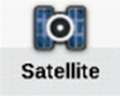
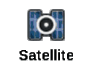
Fixed buttons and exceptions

diff --git a/xtrek/src/xtrek/MainMenuModel.java b/xtrek/src/xtrek/MainMenuModel.java
@@ -3,6 +3,7 @@ package xtrek;
 import javax.imageio.ImageIO;
 import javax.swing.*;
 import java.awt.*;
+import java.io.IOException;
 import java.util.ArrayList;
 
 /**
@@ -19,7 +20,7 @@ public class MainMenuModel extends ModeModel{
     
     private OperatorButton currentButton;
     private int buttonIndex;
-    private Xtrek xtrek;
+    private final Xtrek xtrek;
 
     MainMenuModel(Xtrek xtrek) {
         this.xtrek = xtrek;
@@ -40,6 +41,8 @@ public class MainMenuModel extends ModeModel{
             xtrek.updateFrame(Xtrek.satellite);
         } else if(currentButton.currentClass == About.class) {
             xtrek.updateFrame(Xtrek.AboutMode);
+        } else{
+            xtrek.updateFrame(Xtrek.MainMenu);
         }
     }
     
@@ -77,8 +80,11 @@ public class MainMenuModel extends ModeModel{
                 Image img = ImageIO.read(getClass().getResource("assets/" + display + ".png"))
                         .getScaledInstance(88, 70, Image.SCALE_SMOOTH);
                 setIcon(new ImageIcon(img));
-            }   catch (Exception ex) {
+            }   catch (IOException | IllegalArgumentException ex) {
                 System.out.println(ex);
+                this.setText(display);
+                this.setContentAreaFilled(true);
+                this.setBackground(Color.WHITE);
             }  
             this.currentClass = currentClass;
             setStyle();
@@ -87,10 +93,9 @@ public class MainMenuModel extends ModeModel{
         private void setStyle() {
             //set the display style of the operator buttons
             setOpaque(true); 
-            setBackground(Color.BLACK);
-            setBorderPainted(false);
-            setFont(new Font(Constants.SYSTEM_FONT, Font.BOLD, 14));
-            setHorizontalAlignment(SwingConstants.CENTER);
+            setBackground(Color.WHITE);
+            setBorderPainted(true);
+            
         }
 
         private void focusGained() {
@@ -100,7 +105,7 @@ public class MainMenuModel extends ModeModel{
 
         private void focusLost() {
             //when the focus is lost it reverts back to the orginal colour
-            setBackground(Color.BLACK);
+            setBackground(Color.WHITE);
         }
         
         String getDisplay() {

diff --git a/xtrek/src/xtrek/ControlLayout.java b/xtrek/src/xtrek/ControlLayout.java
@@ -77,8 +77,10 @@ public class ControlLayout extends JPanel{
                 Image img = ImageIO.read(getClass().getResource("assets/power.png"))
                         .getScaledInstance(45, 45, Image.SCALE_SMOOTH);
                 onOff.setIcon(new ImageIcon(img));
-            }   catch (Exception ex) {
-            ex.printStackTrace();
+            }   catch (IOException | IllegalArgumentException ex) {
+                System.out.println(ex);
+                onOff.setContentAreaFilled(true);
+                onOff.setBackground(Color.RED);
             }  
         
         this.add(onOff);
@@ -107,8 +109,9 @@ public class ControlLayout extends JPanel{
             overlay.setIcon(new ImageIcon(img));
             overlayPanel.add(overlay);
             this.add(overlayPanel);
-        } catch(IOException e) {
-            e.printStackTrace();
+        } catch(IOException | IllegalArgumentException ex) {
+            System.out.println(ex);
+            this.setBackground(Color.BLACK);
         }
 
         this.validate();
@@ -127,6 +130,7 @@ public class ControlLayout extends JPanel{
             setStyle();
 
             addMouseListener(new MouseAdapter() {
+                @Override
                 public void mouseClicked(MouseEvent me) {
                     //to add functionality depending on which button has been clicked
                     switch (control) {
@@ -171,11 +175,9 @@ public class ControlLayout extends JPanel{
         }
 
         private void setStyle() {
-            setOpaque(false);
+            setOpaque(true);
             setContentAreaFilled(false);
             setBorderPainted(false);
-            setFont(new Font(Constants.SYSTEM_FONT, Font.BOLD, 5));
-            setHorizontalAlignment(SwingConstants.CENTER);
         }
 
         private void fireEvent() {

diff --git a/xtrek/src/xtrek/MainMenu.java b/xtrek/src/xtrek/MainMenu.java
@@ -12,8 +12,8 @@ import javax.swing.*;
  * @version Sprint 3
  */
 public class MainMenu extends Mode {
-    private MainMenuView MMView;
-    private MainMenuModel MMModel;
+    private final MainMenuView MMView;
+    private final MainMenuModel MMModel;
 
     MainMenu(Xtrek frame) {
         model = new MainMenuModel(frame);

diff --git a/xtrek/src/xtrek/MainMenuView.java b/xtrek/src/xtrek/MainMenuView.java
@@ -40,7 +40,7 @@ public class MainMenuView extends ModeView{
         GridBagConstraints c = new GridBagConstraints();
 
         c.fill = GridBagConstraints.BOTH;
-        c.insets = new Insets(1, 1, 1, 1);
+        c.insets = new Insets(2, 2, 2, 2);
         c.weightx = 1.0;
         c.weighty = 1.0;
 
